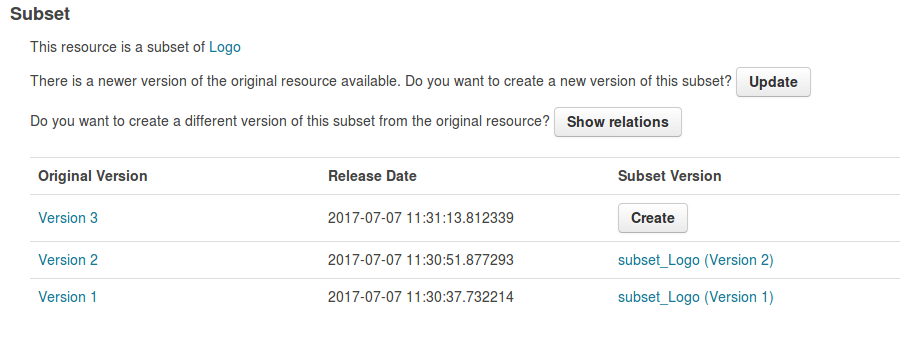
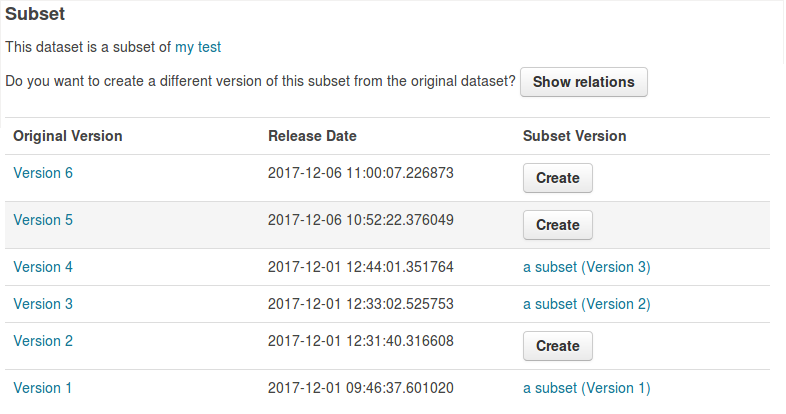
updated README and changed helpers to always get versions from metadata (not with package_search)

diff --git a/ckanext/resourceversions/helpers.py b/ckanext/resourceversions/helpers.py
@@ -4,7 +4,6 @@ import ckan.lib.base as base
 import ckan.model as model
 import ckan.logic as logic
 import ckan.lib.helpers as h
-import json
 
 from ckan.logic.validators import isodate
 
@@ -15,25 +14,31 @@ global_contains_field = []
 
 
 def get_versions(package_id):
-    ctx = {'model': model, 'ignore_capacity_check': True}
+    ctx = {'model': model}
 
     pkg = logic.get_action('package_show')(ctx, {'id': package_id})
 
     versions = [pkg]
 
     # get older versions
-    pkg_helper = pkg.copy()
-    while pkg_helper is not None:
-        pkg_id = pkg_helper['id']
-        pkg_helper = None
+    if 'relations' in pkg and type(pkg['relations']) == list and len(pkg['relations']) > 0 and type(pkg['relations'][0]) == dict:
+        older_versions = [element['id'] for element in pkg['relations'] if element['relation'] == 'is_version_of']
+        if len(older_versions) > 0:
+            oldest_package = tk.get_action('package_show')(ctx, {'id': older_versions[0]})
 
-        rel = {'relation': 'has_version', 'id': str(pkg_id)}
-        # TODO remove include_private for older CKAN versions
-        search_results = tk.get_action('package_search')(ctx, {'include_private': True, 'rows': 10000, 'fq': "extras_relations:%s" % (json.dumps('%s' % rel))})
+            versions.append(oldest_package)
 
-        if search_results['count'] > 0:
-            versions.append(search_results['results'][0])
-            pkg_helper = search_results['results'][0].copy()
+            has_older_version = True
+            while has_older_version:
+                has_older_version = False
+
+                if 'relations' in oldest_package and type(oldest_package['relations']) == list and len(oldest_package['relations']) > 0 and type(oldest_package['relations'][0]) == dict:
+                    search_results = [element['id'] for element in oldest_package['relations'] if element['relation'] == 'is_version_of']
+
+                    if len(search_results) > 0:
+                        has_older_version = True
+                        oldest_package = tk.get_action('package_show')(ctx, {'id': search_results[0]})
+                        versions.append(oldest_package)
 
     # get newer versions
     if 'relations' in pkg and type(pkg['relations']) == list and len(pkg['relations']) > 0 and type(pkg['relations'][0]) == dict:
@@ -88,7 +93,7 @@ def get_oldest_version(package_id):
 
     oldest_package = tk.get_action('package_show')(ctx, {'id': package_id})
 
-    # get newer versions
+    # get older versions
     if 'relations' in oldest_package and type(oldest_package['relations']) == list and len(oldest_package['relations']) > 0 and type(oldest_package['relations'][0]) == dict:
         older_versions = [element['id'] for element in oldest_package['relations'] if element['relation'] == 'is_version_of']
         if len(older_versions) > 0:

diff --git a/ckanext/resourceversions/plugin.py b/ckanext/resourceversions/plugin.py
@@ -213,6 +213,6 @@ class ResourceversionsPackagePlugin(plugins.SingletonPlugin):
         if not include_versions:
             if search_params.get('fq', '') == '':
                 search_params['fq'] = "-relations:*%s*" % ('has_version')
-            elif 'has_version' not in search_params['fq']:
+            else:
                 search_params['fq'] += (" AND -relations:*%s*" % ('has_version'))
         return search_params

diff --git a/README.md b/README.md
@@ -2,18 +2,26 @@
 ckanext-resourceversions
 =============
 
-This extension allows you to create versions of resources. Each version
-becomes a new resource. Therefore, when uploading a new file or changing
-the link of a resource a new resource is being created. However, when changing
-any other information no new version is being created.
+This extension allows you to create versions of datasets. Each version
+becomes a new dataset. Therefore, when uploading a new file or changing
+the link of a resource a new dataset with a new resource is being created. However, when changing any other information no new version is being created.
 
 ![Versions](doc/img/versions.png)
 
 This extension must be used together with ckanext-thredds. Therefore, you can
-create versions of subsets and show relations between the original resource
+create versions of subsets and show relations between the original dataset
 versions and the subset versions.
 
 ![Versions](doc/img/subset_relations.png)
+
+#### API function:
+
+##### package_search(context, data_dict)
+
+Extends CKAN's package_search.
+
+**Additional Parameters:**
+* **include_versions** (bool) - includes all matching versions of a dataset if True, otherwise only the newest versions (optional, default: False)
 
 
 ------------
